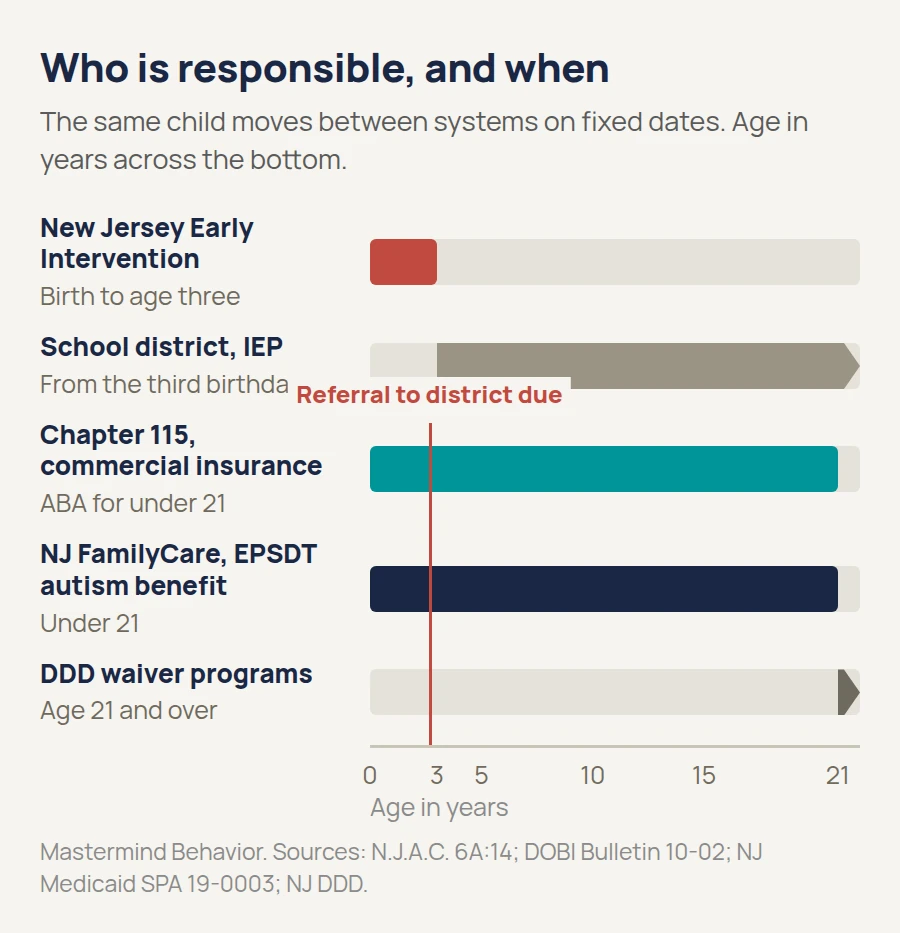
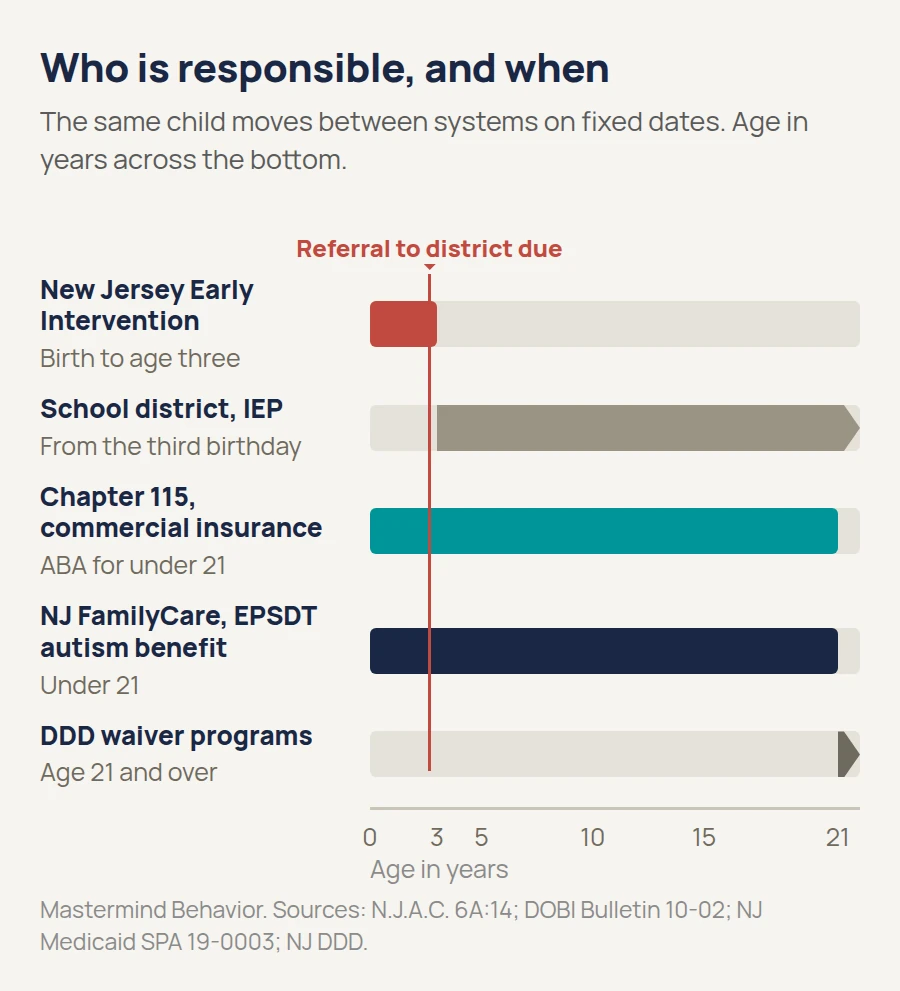
Give the referral marker label its own lane
The label was positioned by offset from the axis and overlapped the
bands. It now sits in a reserved 62px lane above the plot with a pointer
down to the marker line, so no geometry puts it on a bar.

Two gates rather than a nudge. Structural: the generator fails if the
label is not before the plot element or appears inside it. Measured: at
render time the label's bounding box is tested against every bar, track
and label box on the figure and must intersect none. Currently 0.

Third time this class of bug has come up in this program, so the fix is
encoded instead of remembered.

Claude-Session: https://claude.ai/code/session_01ESdSdoUivG7GAzDwAHmNhg

diff --git a/content/blog/guides/figures/nj-who-pays-when.html b/content/blog/guides/figures/nj-who-pays-when.html
@@ -5,23 +5,30 @@
 body{width:900px;font-family:'Manrope',system-ui,sans-serif;background:#f6f4ef;padding:44px 40px 34px}
 h2{font-size:40px;font-weight:800;color:#1a2744;letter-spacing:-.01em;line-height:1.15}
 .sub{font-size:27px;color:#5a5a5a;margin:12px 0 34px;line-height:1.4}
+.lane{position:relative;margin-left:330px;height:62px}
+.markl{position:absolute;bottom:10px;transform:translateX(-50%);font-size:24px;font-weight:800;
+        color:#c14a3f;white-space:nowrap}
+.markl:after{content:"";position:absolute;left:50%;bottom:-12px;margin-left:-6px;
+              border:6px solid transparent;border-top-color:#c14a3f}
+.plot{position:relative}
 .row{display:flex;align-items:center;margin-bottom:18px}
 .lab{width:330px;padding-right:22px;flex:none}
 .lab b{display:block;font-size:26px;font-weight:800;color:#1a2744;line-height:1.22}
 .lab span{display:block;font-size:25px;color:#6f6a5e;margin-top:3px}
 .track{position:relative;flex:1;height:46px;background:#e6e2da;border-radius:6px}
 .bar{position:absolute;top:0;height:46px}
-.axis{position:relative;margin-left:330px;height:74px;margin-top:6px}
+.markwrap{position:absolute;left:330px;right:0;top:0;bottom:18px;pointer-events:none}
+.mark{position:absolute;top:0;bottom:0;width:3px;background:#c14a3f;transform:translateX(-1px)}
+.axis{position:relative;margin-left:330px;height:70px;margin-top:2px}
 .axis .line{position:absolute;top:0;left:0;right:0;height:3px;background:#c9c4b8}
 .tk{position:absolute;top:12px;transform:translateX(-50%);font-size:25px;color:#6f6a5e;white-space:nowrap}
-.mark{position:absolute;top:-322px;height:322px;width:3px;background:#c14a3f}
-.markl{position:absolute;top:-368px;transform:translateX(-50%);font-size:24px;font-weight:800;
-        color:#c14a3f;white-space:nowrap;background:#f6f4ef;padding:0 8px}
 .unit{position:absolute;top:44px;left:0;font-size:25px;color:#8a8a8a}
 .credit{margin-top:16px;font-size:23px;color:#8a8a8a}
 </style></head><body>
 <h2>Who is responsible, and when</h2>
 <div class="sub">The same child moves between systems on fixed dates. Age in years across the bottom.</div>
+<div class="lane"><div class="markl" style="left:12.14%">Referral to district due</div></div>
+<div class="plot">
 <div class="row">
   <div class="lab"><b>New Jersey Early Intervention</b><span>Birth to age three</span></div>
   <div class="track"><div class="bar" style="left:0.0%;width:13.64%;background:#c14a3f;border-radius:6px"></div></div>
@@ -38,9 +45,9 @@ h2{font-size:40px;font-weight:800;color:#1a2744;letter-spacing:-.01em;line-heigh
   <div class="lab"><b>DDD waiver programs</b><span>Age 21 and over</span></div>
   <div class="track"><div class="bar" style="left:95.45%;width:4.55%;background:#6f6a5e;border-radius:0;clip-path:polygon(0 0,calc(100% - 16px) 0,100% 50%,calc(100% - 16px) 100%,0 100%)"></div></div>
 </div>
+  <div class="markwrap"><div class="mark" style="left:12.14%"></div></div>
+</div>
 <div class="axis"><div class="line"></div><div class="tk" style="left:0.0%">0</div><div class="tk" style="left:13.64%">3</div><div class="tk" style="left:22.73%">5</div><div class="tk" style="left:45.45%">10</div><div class="tk" style="left:68.18%">15</div><div class="tk" style="left:95.45%">21</div>
-  <div class="mark" style="left:12.14%"></div>
-  <div class="markl" style="left:12.14%">Referral to district due</div>
   <div class="unit">Age in years</div>
 </div>
 <div class="credit">Mastermind Behavior. Sources: N.J.A.C. 6A:14; DOBI Bulletin 10-02; NJ Medicaid SPA 19-0003; NJ DDD.</div>

diff --git a/tools/blog/build-nj-figures.py b/tools/blog/build-nj-figures.py
@@ -68,27 +68,34 @@ fig1 = f'''<!doctype html><html><head><meta charset="utf-8">
 body{{width:900px;font-family:'Manrope',system-ui,sans-serif;background:#f6f4ef;padding:44px 40px 34px}}
 h2{{font-size:40px;font-weight:800;color:#1a2744;letter-spacing:-.01em;line-height:1.15}}
 .sub{{font-size:27px;color:#5a5a5a;margin:12px 0 34px;line-height:1.4}}
+.lane{{position:relative;margin-left:330px;height:62px}}
+.markl{{position:absolute;bottom:10px;transform:translateX(-50%);font-size:24px;font-weight:800;
+        color:#c14a3f;white-space:nowrap}}
+.markl:after{{content:"";position:absolute;left:50%;bottom:-12px;margin-left:-6px;
+              border:6px solid transparent;border-top-color:#c14a3f}}
+.plot{{position:relative}}
 .row{{display:flex;align-items:center;margin-bottom:18px}}
 .lab{{width:330px;padding-right:22px;flex:none}}
 .lab b{{display:block;font-size:26px;font-weight:800;color:#1a2744;line-height:1.22}}
 .lab span{{display:block;font-size:25px;color:#6f6a5e;margin-top:3px}}
 .track{{position:relative;flex:1;height:46px;background:#e6e2da;border-radius:6px}}
 .bar{{position:absolute;top:0;height:46px}}
-.axis{{position:relative;margin-left:330px;height:74px;margin-top:6px}}
+.markwrap{{position:absolute;left:330px;right:0;top:0;bottom:18px;pointer-events:none}}
+.mark{{position:absolute;top:0;bottom:0;width:3px;background:#c14a3f;transform:translateX(-1px)}}
+.axis{{position:relative;margin-left:330px;height:70px;margin-top:2px}}
 .axis .line{{position:absolute;top:0;left:0;right:0;height:3px;background:#c9c4b8}}
 .tk{{position:absolute;top:12px;transform:translateX(-50%);font-size:25px;color:#6f6a5e;white-space:nowrap}}
-.mark{{position:absolute;top:-322px;height:322px;width:3px;background:#c14a3f}}
-.markl{{position:absolute;top:-368px;transform:translateX(-50%);font-size:24px;font-weight:800;
-        color:#c14a3f;white-space:nowrap;background:#f6f4ef;padding:0 8px}}
 .unit{{position:absolute;top:44px;left:0;font-size:25px;color:#8a8a8a}}
 .credit{{margin-top:16px;font-size:23px;color:#8a8a8a}}
 </style></head><body>
 <h2>Who is responsible, and when</h2>
 <div class="sub">The same child moves between systems on fixed dates. Age in years across the bottom.</div>
+<div class="lane"><div class="markl" style="left:{mark_x}%">Referral to district due</div></div>
+<div class="plot">
 {''.join(rows)}
+  <div class="markwrap"><div class="mark" style="left:{mark_x}%"></div></div>
+</div>
 <div class="axis"><div class="line"></div>{ticks}
-  <div class="mark" style="left:{mark_x}%"></div>
-  <div class="markl" style="left:{mark_x}%">Referral to district due</div>
   <div class="unit">Age in years</div>
 </div>
 <div class="credit">Mastermind Behavior. Sources: N.J.A.C. 6A:14; DOBI Bulletin 10-02; NJ Medicaid SPA 19-0003; NJ DDD.</div>
@@ -141,6 +148,11 @@ h2{{font-size:40px;font-weight:800;color:#1a2744;letter-spacing:-.01em;line-heig
 <div class="steps">{step_html}</div>
 <div class="credit">Mastermind Behavior. Source: NJ Department of Banking and Insurance, UM appeals and IHCAP. Does not apply to self-funded plans.</div>
 </body></html>'''
+
+if '<div class="lane">' not in fig1 or fig1.index('class="markl"') > fig1.index('<div class="plot">'):
+    errs.append('the marker label must sit in its own lane above the plot, not inside it')
+if 'class="markl"' in fig1[fig1.index('<div class="plot">'):]:
+    errs.append('a marker label is still rendered inside the plot area')
 
 (OUT / 'nj-who-pays-when.html').write_text(fig1, encoding='utf-8')
 (OUT / 'nj-appeal-clock.html').write_text(fig2, encoding='utf-8')

diff --git a/content/blog/guides/BUILD-RECORD-nj-funding-guide.md b/content/blog/guides/BUILD-RECORD-nj-funding-guide.md
@@ -133,3 +133,22 @@ in a 358px phone column. Neither overflows.
 
 Not yet embedded in the CMS body. Figures exist as HTML and webp in
 `content/blog/guides/figures/`.
+
+### Marker label collision (third time this class of bug has appeared)
+
+The "Referral to district due" label was positioned by offset from the
+axis and landed on top of the bands. Fixed properly rather than nudged:
+the label now lives in its own 62px lane above the plot, with a pointer
+triangle down to the marker line, so there is no geometry in which it can
+reach a bar.
+
+Two gates added. A structural one in the generator: the label must appear
+before `<div class="plot">` and must not appear inside it. And a measured
+one at render time: the label's bounding box is tested against every bar,
+track and text box on the figure, and must intersect none of them. It
+reports 0.
+
+This is the third label collision in this program. The lesson each time
+has been the same, and it is now encoded rather than remembered: do not
+position a label by offset near something it must clear. Give it its own
+reserved space and let the layout guarantee the separation.
